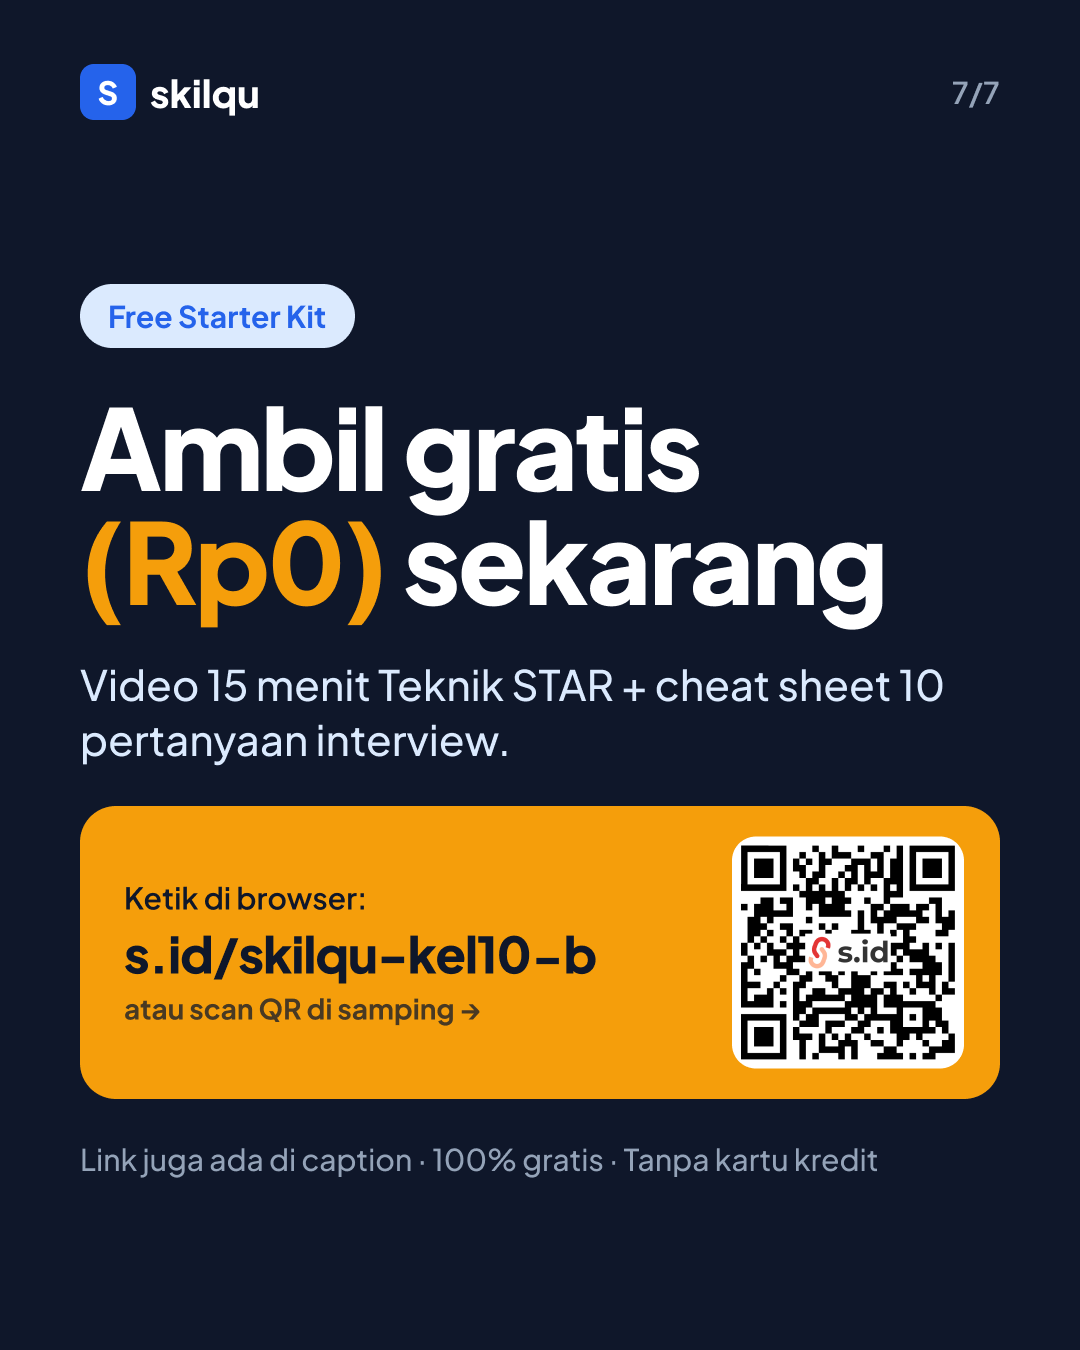
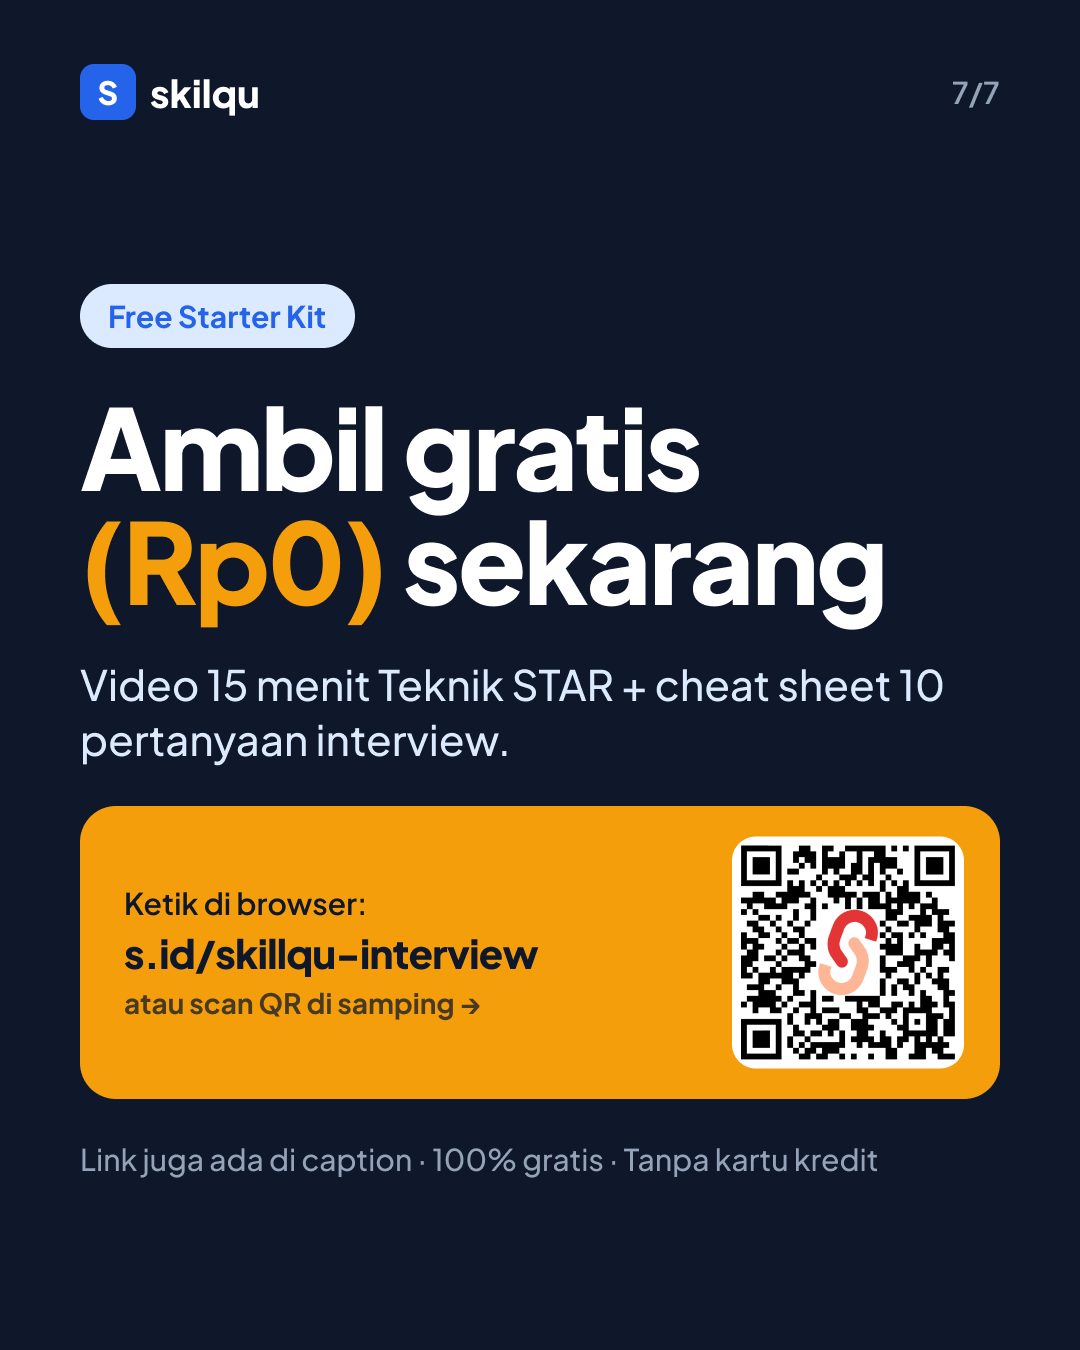
Slide 7 Feed B: ganti ke QR dan link s.id/skillqu-interview

Changed region(s): [[0.1222, 0.6533, 0.55, 0.7778], [0.6722, 0.6222, 0.8861, 0.8089]]

diff --git a/Konsep Feed Carousel Modul 3.md b/Konsep Feed Carousel Modul 3.md
@@ -23,7 +23,7 @@ Track C (Interview). 1 carousel, 7 slide, ukuran 1080×1350 (4:5). Dua versi han
 | Versi | Tayang | Diamati sampai | Link di postingan |
 |---|---|---|---|
 | A | Rabu, 18 Nov 2026, [19.00] WIB | Jumat, 20 Nov, [19.00] | s.id/skillqu-sukses-Interview |
-| B | Kamis, 19 Nov 2026, [19.00] WIB | Sabtu, 21 Nov, [19.00] | s.id/skilqu-kel10-b |
+| B | Kamis, 19 Nov 2026, [19.00] WIB | Sabtu, 21 Nov, [19.00] | s.id/skillqu-interview |
 
 Link s.id-nya diarahkan ke:
 - A: `https://skilqu-interview-magang.netlify.app/?utm_source=ig&utm_medium=carousel&utm_content=hook_control_A`
@@ -148,7 +148,7 @@ PNG alternatif ada di `Modul 3 Carousel/Alternatif Cover/`. Kalau cover yang dip
 
 ### Slide 7: CTA
 - Judul: **"Ambil gratis (Rp0) sekarang"**
-- Kotak amber besar: **"Ketik s.id/skillqu-sukses-Interview"** (di versi B: **s.id/skilqu-kel10-b**)
+- Kotak amber besar: **"Ketik s.id/skillqu-sukses-Interview"** (di versi B: **s.id/skillqu-interview**)
 - Di bawahnya: "Video 15 menit + cheat sheet 10 pertanyaan interview"
 - Baris kecil: "Link juga ada di caption · 100% gratis · Tanpa kartu kredit"
 
@@ -171,7 +171,7 @@ PNG alternatif ada di `Modul 3 Carousel/Alternatif Cover/`. Kalau cover yang dip
 >
 > #interviewmagang #tipsinterview #teknikSTAR #pertanyaaninterview #magang #freshgraduate #carikerja #persiapaninterview
 
-Di versi B, link-nya diganti `s.id/skilqu-kel10-b`. Hashtag diambil dari keyword Modul 1 (pertanyaan interview magang, cara menjawab pertanyaan interview, teknik STAR). [Cek ulang dengan hasil riset Modul 1 kelompok.]
+Di versi B, link-nya diganti `s.id/skillqu-interview`. Hashtag diambil dari keyword Modul 1 (pertanyaan interview magang, cara menjawab pertanyaan interview, teknik STAR). [Cek ulang dengan hasil riset Modul 1 kelompok.]
 
 ---
 
